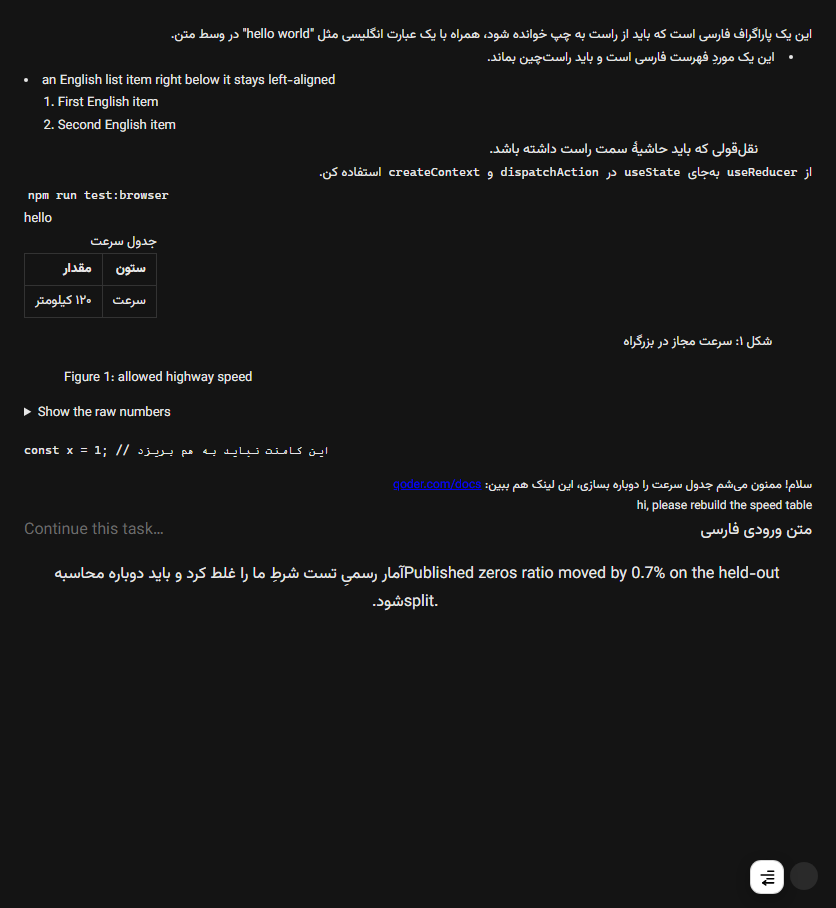
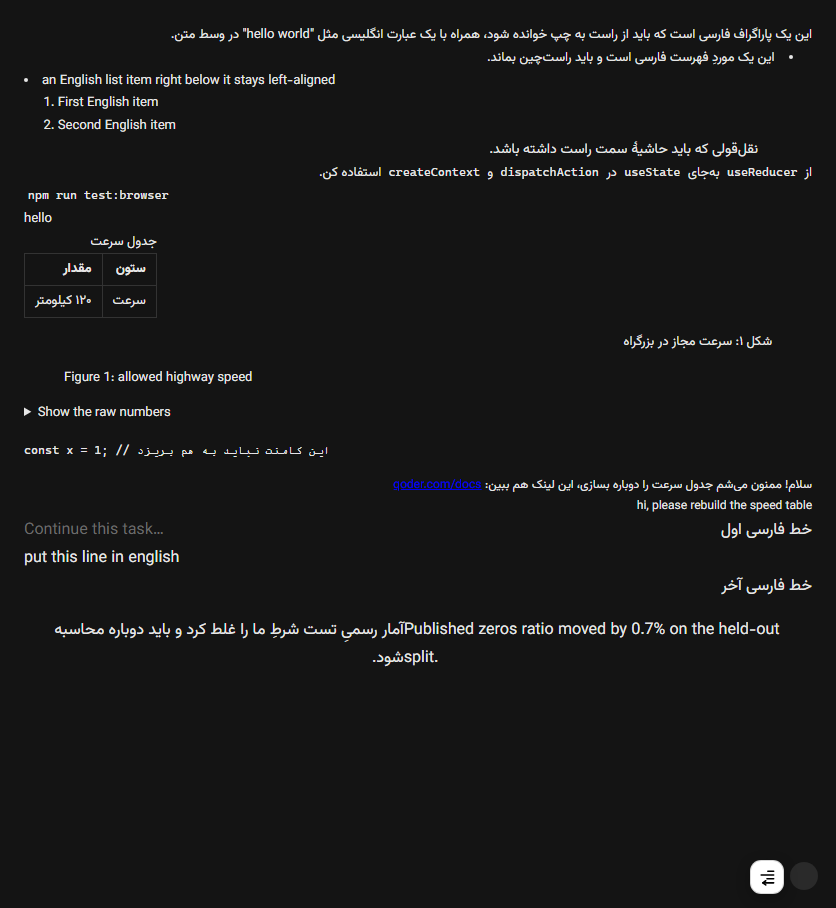
fix: give each line of the chat input its own direction
The owner reported it on the live app: in the composer, one English letter made everything
LTR instead of just that line. The cause was my own batch-9 change — I made the editor
classifiable like every other block, but the composer is one box holding several hard lines,
so a block-level verdict can only be wrong for some of them. Measured on the fixture: a
single "p" in an empty input turned the whole box ltr/left.

- the editor is no longer classified: it keeps `direction: rtl` with
  `unicode-bidi: plaintext`, which takes each line's base direction from that line
- the ghost placeholder keeps its own verdict (one string, one verdict) — that half of
  batch 9 was correct and stays
- BLOCK_SELECTOR drops the contenteditable entry, with the reason and the `textarea`
  exemption written down next to it
- the smart-mode `.qrt-en`/`.qrt-fa` overrides name the placeholder directly instead of
  `:is(editor, placeholder)`
- the fifteenth audit line scores the editor on rtl + plaintext and prints
  `editor=rtl/per-line`, so it can no longer demand the class that caused this
- two new browser checks: the box carries no verdict, and the three fixture lines hug
  right/left/right by their own Range geometry — the complaint expressed as coordinates
- class counts retallied 9/10 -> 8/10; the fixture's editor now holds a real mixed
  three-line message, and docs/images were regenerated from it

Red-first in a worktree at f6525a6: 2 source checks red ({"editorInBlockList":true,
[…]

Changed region(s): [[0.0311, 0.5551, 0.9641, 0.7401]]

diff --git a/test/browser.js b/test/browser.js
@@ -195,9 +195,28 @@ async function settingsTest() {
         lead: Math.round(parseFloat(s.lineHeight) * 100) / 100,
         size: parseFloat(s.fontSize),
         dir: s.direction,
+        ub: s.unicodeBidi,
         align: s.textAlign === "start" ? (s.direction === "rtl" ? "right" : "left") : s.textAlign,
         cls: el.className.replace(/text-sm|leading-6|text-text|my-0/g, "").trim()
       };
+    };
+    /* Where each hard line of the composer actually lands inside its own box. A block-level
+       language verdict cannot express this: it decides for the whole input at once, which is
+       the regression the owner reported («one English letter flips everything»). */
+    var editorLines = function () {
+      var box = editor.getBoundingClientRect();
+      return [].slice.call(editor.childNodes)
+        .filter(function (n) { return n.nodeType === 3 && n.data.trim(); })
+        .map(function (n) {
+          var rg = document.createRange();
+          rg.selectNodeContents(n);
+          var r = rg.getBoundingClientRect();
+          return {
+            txt: n.data.slice(0, 18),
+            hugs: Math.abs(r.right - box.right) < Math.abs(r.left - box.left) ? "right" : "left",
+            firstLastOrder: r.right > r.left ? "forward" : "reverse"
+          };
+        });
     };
     api.apply({ lineHeight: 2.3, rtl: true, mode: "smart" });
     var smart = {
@@ -220,6 +239,7 @@ async function settingsTest() {
       /* The composer is where you type Persian *and* English, so a fixed RTL pin is wrong
          half the time: both its surfaces need their own verdict like any other block. */
       editor: ratio(editor),
+      editorLines: editorLines(),
       ghost: ratio(ghost),
       monFa: ratio(monFa),
       monEn: ratio(monEn),
@@ -279,8 +299,8 @@ async function settingsTest() {
            paragraph inside <details> raised these from 4/5 to 6/7 (the caption and the
            table cells are deliberately not classified — the tables switch owns those),
            and Qoder's own human turn — two bubbles, one per language — raised them to 7/8,
-           and the composer's two surfaces plus the task-monitor panel to 9/10. */
-        val.smart.fa === 9 &&
+           and the task-monitor panel to 9/10; taking the block-level verdict off the composer box again made it 8/10. */
+        val.smart.fa === 8 &&
         val.smart.en === 10,
       JSON.stringify(val.smart)
     );
@@ -310,10 +330,26 @@ async function settingsTest() {
        placeholder are RTL-pinned by the stylesheet but were never classified, so an English
        placeholder sat right-aligned with its ellipsis on the wrong side — and that placeholder
        only appears while a run is going on, which is what made it look streaming-specific. */
+    /* The composer is one box holding several lines, so a block-level verdict can only be
+       wrong for some of them — measured on the previous payload: a single Latin letter in an
+       otherwise empty input flipped the whole box to ltr/left. `unicode-bidi: plaintext`
+       already gives every hard line its own base direction, which is what the two checks
+       below measure — the box's class, and where each line actually lands. */
     check(
-      "the composer gets its own direction verdict",
-      val.smart.editor.dir === "rtl" && val.smart.editor.align === "right" && /qrt-fa/.test(val.smart.editor.cls),
+      "the composer box stays one RTL block with no language verdict of its own",
+      !/qrt-(fa|en)/.test(val.smart.editor.cls) &&
+        val.smart.editor.dir === "rtl" &&
+        val.smart.editor.align === "right" &&
+        val.smart.editor.ub === "plaintext",
       JSON.stringify(val.smart.editor)
+    );
+    check(
+      "each line of the composer keeps its own direction",
+      val.smart.editorLines.length === 3 &&
+        val.smart.editorLines[0].hugs === "right" &&
+        val.smart.editorLines[1].hugs === "left" &&
+        val.smart.editorLines[2].hugs === "right",
+      JSON.stringify(val.smart.editorLines)
     );
     check(
       "an all-Latin placeholder is not right-aligned",
@@ -603,7 +639,7 @@ async function geometryTest() {
         val.plain.ghost.dir === "ltr" &&
         /qrt-en/.test(val.plain.ghost.cls) &&
         val.plain.editor.dir === "rtl" &&
-        /qrt-fa/.test(val.plain.editor.cls),
+        !/qrt-(fa|en)/.test(val.plain.editor.cls),
       JSON.stringify({ ghost: val.plain.ghost, editor: val.plain.editor })
     );
 

diff --git a/test/live.js b/test/live.js
@@ -287,14 +287,19 @@ function main() {
   check("the panel's prose is stamped for leading, not only given a direction",
     baseTags.filter((t) => /p|li|dd|dt|blockquote|figcaption|summary/.test(t)).every((t) => leadList.includes(`"${MON} ${t}"`)),
     leadList.includes(`"${MON} p"`) ? "panel p in LEAD_SELECTOR" : "panel p missing from LEAD_SELECTOR");
-  /* The composer half: pinned by the base rule since 1.6.0, classified only now — an English
-     placeholder had no .qrt-en to hand it back to LTR. */
-  check("the composer's editor and placeholder get a verdict, both ways",
-    blockList.includes('"[data-chat-composer] [contenteditable]"') &&
-      blockList.includes('"[data-chat-composer] [data-chat-composer-placeholder]"') &&
-      /html\[data-qrt-mode="smart"\] \[data-chat-composer\] :is\(\[contenteditable="true"\], \[data-chat-composer-placeholder\]\)\.qrt-en/.test(css) &&
-      /html\[data-qrt-mode="smart"\] \[data-chat-composer\] :is\(\[contenteditable="true"\], \[data-chat-composer-placeholder\]\)\.qrt-fa/.test(css),
-    JSON.stringify({ blockEditor: blockList.includes('"[data-chat-composer] [contenteditable]"'), smartEn: /placeholder\]\)\.qrt-en/.test(css) }));
+  /* The composer's ghost placeholder is one string, so it gets one verdict — measured on the
+     live window as the Latin «Continue this task…» sitting right-aligned with its ellipsis on
+     the wrong side. The *editor* is deliberately not classified: it holds several hard lines,
+     and a block-level verdict flipped the whole input to LTR over one Latin letter. The base
+     rule keeps it `rtl` + `unicode-bidi: plaintext`, which decides per line instead. */
+  check("the composer placeholder gets a verdict and the editor keeps per-line plaintext",
+    blockList.includes('"[data-chat-composer] [data-chat-composer-placeholder]"') &&
+      !blockList.includes('"[data-chat-composer] [contenteditable]"') &&
+      /html\[data-qrt-mode="smart"\] \[data-chat-composer\] \[data-chat-composer-placeholder\]\.qrt-en/.test(css) &&
+      /html\[data-qrt-mode="smart"\] \[data-chat-composer\] \[data-chat-composer-placeholder\]\.qrt-fa/.test(css) &&
+      !/html\[data-qrt-mode="smart"\] \[data-chat-composer\] :is\(\[contenteditable="true"\], \[data-chat-composer-placeholder\]\)\.qrt-en/.test(css) &&
+      /\[data-chat-composer\] :is\(textarea, \[contenteditable="true"\], \[data-chat-composer-placeholder\]\) \{\s*unicode-bidi: plaintext;/.test(css),
+    JSON.stringify({ editorInBlockList: blockList.includes('"[data-chat-composer] [contenteditable]"'), smartGhost: /\[data-chat-composer\] \[data-chat-composer-placeholder\]\.qrt-en/.test(css) }));
   check("the verdict measures the panel and the placeholder instead of assuming them",
     probe.includes("monitorText: monitor") && /var monitor = readSurface\(/.test(probe) &&
       probe.includes('taskMonitor: count("[data-task-monitor-fixed-panel]")') && /var ghost = readSurface\(/.test(probe),
@@ -302,6 +307,12 @@ function main() {
   check("the new row refuses to pass on a window that rendered neither surface",
     /surfaceShots\.length\s*\?[\s\S]{0,1800}:\s*null/.test(livejs) && livejs.includes("not rendered to measure"),
     (/const surfaceShots = [^\n]*/.exec(livejs) || [""])[0]);
+  /* The row must not ask the editor for a class — that demand is what made a single Latin
+     letter flip the whole input. It asks for an RTL box with per-line plaintext instead. */
+  check("the row scores the editor on per-line plaintext rather than on a verdict",
+    /editorOk\(a\.composerEditor\)/.test(livejs) && /bidi === "plaintext"/.test(livejs) &&
+      !/one\(a\.composerEditor\)/.test(livejs) && probe.includes("bidi: s.unicodeBidi"),
+    JSON.stringify({ editorOk: /editorOk\(a\.composerEditor\)/.test(livejs), bidiInProbe: probe.includes("bidi: s.unicodeBidi") }));
   /* And the fixture has to keep containing the surfaces, or these rows quietly degrade to
      "never measured" forever — the exact blind spot that hid the batch-8 defect. */
   const fixture = fs.readFileSync(path.join(__dirname, "fixtures", "chat.html"), "utf8");

diff --git a/patches/rtl.css b/patches/rtl.css
@@ -102,10 +102,11 @@
    right-aligned with no class to argue with), and test/live.js checks that invariant. */
 html[data-qrt-mode="smart"] [data-chat-message-text] :is(p, li, blockquote, h1, h2, h3, h4, h5, h6, dd, dt, figcaption, summary).qrt-en,
 html[data-qrt-mode="smart"] [data-task-monitor-fixed-panel] :is(p, li, blockquote, h1, h2, h3, h4, h5, h6, dd, dt, figcaption, summary).qrt-en,
-/* The composer is typed into in both languages, so a fixed RTL pin was wrong half the time:
-   measured on the live window, the run-time placeholder «Continue this task…» is Latin and sat
-   right-aligned with its ellipsis on the wrong side, while the editor holds your Persian. */
-html[data-qrt-mode="smart"] [data-chat-composer] :is([contenteditable="true"], [data-chat-composer-placeholder]).qrt-en,
+/* Only the ghost text is judged as one block: it is one string. The editor under it holds
+   several hard lines and keeps `unicode-bidi: plaintext` from the base rule, so each line
+   takes its direction from that line — a verdict on the whole editor made one Latin letter
+   flip a Persian input to left-alignment (measured, and the reason this line is not here). */
+html[data-qrt-mode="smart"] [data-chat-composer] [data-chat-composer-placeholder].qrt-en,
 html[data-qrt-mode="smart"] [data-user-bubble] [data-chat-message-text].qrt-en {
   direction: ltr;
   text-align: left;
@@ -113,7 +114,7 @@ html[data-qrt-mode="smart"] [data-user-bubble] [data-chat-message-text].qrt-en {
 
 html[data-qrt-mode="smart"] [data-chat-message-text] :is(p, li, blockquote, h1, h2, h3, h4, h5, h6, dd, dt, figcaption, summary).qrt-fa,
 html[data-qrt-mode="smart"] [data-task-monitor-fixed-panel] :is(p, li, blockquote, h1, h2, h3, h4, h5, h6, dd, dt, figcaption, summary).qrt-fa,
-html[data-qrt-mode="smart"] [data-chat-composer] :is([contenteditable="true"], [data-chat-composer-placeholder]).qrt-fa,
+html[data-qrt-mode="smart"] [data-chat-composer] [data-chat-composer-placeholder].qrt-fa,
 html[data-qrt-mode="smart"] [data-user-bubble] [data-chat-message-text].qrt-fa {
   direction: rtl;
   text-align: right;

diff --git a/patches/rtl.js b/patches/rtl.js
@@ -2,7 +2,7 @@
 (function () {
   "use strict";
 
-  var VERSION = "1.8.2";
+  var VERSION = "1.8.3";
   var STORE_KEY = "qoder_persian_rtl_config_v1";
   if (typeof window === "undefined" || typeof document === "undefined") return;
   var previous = window.__QODER_RTL__;
@@ -54,12 +54,13 @@
        was RTL. The base CSS rule pins that container too, and an RTL-pinned block that
        cannot be classified is exactly the 1.4.0 bug. */
     "[data-user-bubble] [data-chat-message-text]" /* the human turn: text on the container */,
-    /* The composer's two text surfaces are direction-pinned by the stylesheet, so they need
-       a verdict like any other block: measured on the live window, the run-time placeholder
-       «Continue this task…» is Latin and had no class to hand it back to LTR. `textarea` is
-       deliberately absent — it is in CODE_ANCHOR, so markBlocks() skips it, and its text is
-       in `.value`, which the classifier does not read. Qoder's editor is contenteditable. */
-    "[data-chat-composer] [contenteditable]",
+    /* The composer's ghost placeholder is one string, so it gets one verdict like any other
+       block: measured on the live window, the Latin «Continue this task…» sat right-aligned
+       with its ellipsis on the wrong side. The *editor* is deliberately NOT here — it holds
+       several hard lines, and a block-level verdict on it flipped the whole input to LTR over
+       a single Latin letter. The base rule leaves it `rtl` + `unicode-bidi: plaintext`, which
+       decides each line from that line's own text. `textarea` is absent for a different
+       reason: it is in CODE_ANCHOR, so markBlocks() skips it, and its text is `.value`. */
     "[data-chat-composer] [data-chat-composer-placeholder]",
     /* The agent's task-monitor / recap panel: Persian prose that lives outside every chat
        hook, is filled while a run is going on and collapses when it ends. */

diff --git a/live.js b/live.js
@@ -560,7 +560,11 @@ function verdictRows(reports) {
               if (u.cls === "qrt-en") return u.direction === "ltr" && u.textAlign === "left";
               return false; /* an unmarked, RTL-pinned block is the defect itself */
             };
-            return one(a.monitorText) && one(a.composerGhost) && one(a.composerEditor);
+            /* The editor is the one block that must NOT carry a verdict: it holds several hard
+               lines, and `unicode-bidi: plaintext` gives each of them its own direction. So it
+               is scored on the box staying RTL and isolated per line, not on a class. */
+            const editorOk = (u) => !u || (a.mode === "off" ? u.direction === "ltr" : u.direction === "rtl" && u.bidi === "plaintext" && !/qrt-(fa|en)/.test(u.cls || ""));
+            return one(a.monitorText) && one(a.composerGhost) && editorOk(a.composerEditor);
           })
         : null,
       detail: surfaceShots.length
@@ -568,7 +572,8 @@ function verdictRows(reports) {
             .map((r) => {
               const a = r.applied;
               const fmt = (label, u) => (u ? `${label}=${u.cls || "UNMARKED"} ${u.direction}/${u.textAlign} stamp=${u.stamp || "none"}` : `${label}=absent`);
-              return [fmt("monitor", a.monitorText), fmt("ghost", a.composerGhost), fmt("editor", a.composerEditor)].join(" ");
+              const e = a.composerEditor;
+              return [fmt("monitor", a.monitorText), fmt("ghost", a.composerGhost), e ? `editor=${e.direction}/${e.bidi === "plaintext" ? "per-line" : e.bidi}` : "editor=absent"].join(" ");
             })
             .join(" | ")
         : answered.map((r) => `panel nodes=${r.hooks ? r.hooks.taskMonitor : "?"}, composer nodes=${r.hooks ? r.hooks.composer : "?"}`).join(" | ") || "—"

diff --git a/test/fixtures/chat.html b/test/fixtures/chat.html
@@ -237,7 +237,7 @@
               role="textbox"
               aria-label="Send task message"
               data-editor-render-key="1"
-            >متن ورودی فارسی</div>
+            >خط فارسی اول<br>put this line in english<br>خط فارسی آخر</div>
             <!-- The overlay is a sibling, not styled text inside the editor: it needs
                      the same direction, font and leading or the ghost text and the caret
                      line disagree. -->

diff --git a/lib/payload.js b/lib/payload.js
@@ -239,6 +239,7 @@ function probeSource() {
     return {
       direction: s.direction,
       textAlign: align,
+      bidi: s.unicodeBidi,
       ratio: sz && isFinite(lh) ? Math.round((lh / sz) * 1000) / 1000 : null,
       stamp: el.getAttribute("data-qrt-lead"),
       cls: mark ? mark[0] : null,

diff --git a/docs/REPORT.md b/docs/REPORT.md
@@ -187,6 +187,10 @@ npm run test:browser     # End-to-end روش CDP روی یک Chromium واقعی
 
 **batch هشتم همان چیزی است که مالک روی Qoder واقعی گزارش کرد، نه چیزی که تستها پیدا کنند:** «چرا دیگه روی پیامهای ورودی کاربر اعمال نمیشه این RTL؟ فقط روی خروجی کار میکنه». علتش در متنِ هیچ قانونی دیده نمیشد: حبابِ پیام کاربر هم `data-chat-message-text` دارد، ولی Qoder آن را با markdown رندر نمیکند — متنِ پیام **روی خودِ `<div>`** است (`text-xs leading-4 whitespace-pre-wrap`، بدون `<p>`، بدون `.markdown-body`)، پس تمامِ قانونهایی که از آن صفت *پایین* میروند هرگز به آن نمیرسیدند و جهتِ پاسخها درست بود در حالی که پیامِ خودِ شما زیر پیشفرضِ `ltr`ِ اپ میماند. markup از همان جای `out\renderer\assets\index-DDa3WwIe.js` خوانده شد که `data-message-kind:"user"` را میگذارد. payload به **۱٫۸٫۱** رسید و صفتِ حباب در شش گروهِ قانون، `BLOCK_SELECTOR` و `LEAD_SELECTOR` نشست. **چرا ۵۲ چکِ مرورگر این را ندیدند؟** چون fixture هیچ حبابِ کاربری نداشت؛ چیزی که وجود ندارد را نمیشود سنجید. دو چکِ سورسِ تازه (هر شش گروه + هر دو فهرست رانتایم) و دو چکِ پروب/سطر اضافه شد و در fixture هم دو حباب نشست (فارسی + انگلیسی). **کنترلِ منفی:** این بار `git worktree` درستِ ابزار بود، چون `HEAD` (`6d0cbf4`) دقیقاً درختِ پیشِ batch است. با payload ۱٫۸٫۰ و تستهای تازه: **۴ چکِ سورس سرخ** (`{"missing":["leading","direction","smartEn","smartFa","force","off"],"mentions":0}`) و **۸ خطا در تست مرورگر** — از جمله سطرِ تازهٔ `--check` با خروجیِ واقعیِ نقص: `your own messages follow the patch, not only the replies (UNMARKED ltr/left leading=1.75 stamp=none)`. یک چک را باید صادقانه کمارزش اعلام کنم: «با خاموشکردنِ جهت پیامِ کاربر به `ltr/left` برمیگردد» روی کدِ **خراب هم سبز ماند**، چون حبابِ خرابنشده از اول `ltr/left` بود؛ آن چک فقط *برگشتن* را میگیرد، نه خودِ نقص را، و چهار چک دیگر همان نقص را میگیرند. **روی Qoder واقعی (۰٫۳٫۳) هم سنجیده شد**، ۲۰۲۶-۰۹-۲۱ بعد از اینکه مالک با `node cli.js start --check` خودش برنامه را با پرچم بالا آورد: **۱۴/۱۴ سطر PASS** و سطرِ تازه روی متنِ زنده — `qrt-fa rtl/right leading=1.8 stamp=1.8` با `userBubble:3` و `hasParagraph:false`، یعنی پیشفرضِ «متنِ پیام روی خودِ کانتینر است» روی نصبِ واقعی هم درست بود (نه فقط روی fixture). در کنارش `fa=26/en=1`، `bytes=10506`، نثر `23.4px` با `zoom 1.0625`، و پروبها `23.4→27.95px` / کد `78→114.41px`. **اولین اجرا فریبدهنده بود:** چهار سطرِ نثر سرخ شد چون `hooks` همه صفر بود — پنجره هنوز گفتوگو را رندر نکرده بود، نه اینکه پچ نگرفته باشد؛ اجرایِ دوم چند ثانیه بعد همان پنجره را کامل دید. چیزی که همچنان سنجیده نشده: **پنجرهٔ دومِ بینقشه** (`still being attached`) و ظاهرِ بصریِ متنِ بزرگشده، که آزمونِ خودکار نمیبیندشان. عددِ تازهها: `npm test` = **۱۶۹ ok**، `npm run test:browser` = **۵۸ ok**، سطرهای `--check` = **۱۴**.
 
+**batch دهم یک رگرسیونِ ساختِ خودم را برگرداند؛ مالک آن را روی Qoder واقعی گزارش داد:** «توی input چت RTL درست کار نمیکند و حتی با یک حرفِ انگلیسی همهچیز LTR میشود، بهجای اینکه فقط همان خط انگلیسی LTR شود». علتش تغییرِ batch نهم بود: من «کامپوزر» را هم مثلِ بقیهٔ بلوکها طبقهبندیپذیر کردم، ولی کادرِ نوشتن **یک بلوک با چند خطِ واقعی** است و داوریِ سطح-بلوک فقط میتواند برای بعضیِ خطها غلط باشد. روی fixture اندازه گرفته شد: یک `p` در ورودیِ خالی → کلِ باکس `ltr/left`؛ و در ورودیِ سهخطی (فارسی/انگلیسی/فارسی) با payloadِ قبلی خطِ انگلیسی هم «به سمتِ راست» میچسبید (چون `text-align: right` از قاعدهٔ `.qrt-fa`). راهحل حذفِ همان داوری برای ادیتور است: `direction: rtl` + `unicode-bidi: plaintext` میماند و **هر خط جهت و ترازِ خودش را از متنِ خودش میگیرد** — بعد از اصلاح، همان خطِ انگلیسی «به سمتِ چپ» میچسبد و دو خطِ فارسی راست میمانند؛ این با هندسهٔ Rangeِ هر خط سنجیده میشود نه با style محاسبهشده. نیمهٔ درستِ batch نهم (placeholder که یک رشته است و داوریِ خودش را میگیرد) سرِ جایش ماند. سطرِ پانزدهمِ `--check` هم عوض شد: ادیتور را بر پایهٔ `rtl` + `plaintext` داوری میکند و `editor=rtl/per-line` چاپ میکند، نه بر پایهٔ کلاس. **کنترلِ منفی** روی `f6525a6`: **۲ چکِ سورس سرخ** (`{"editorInBlockList":true,"smartGhost":false}`) و **۴ چکِ مرورگر سرخ**، از جمله `each line of the composer keeps its own direction ([{…hugs:"right"}, {…hugs:"right"}])` — یعنی همان شکایتِ مالک، عددی شده. دو چکِ تجمیعیِ «بقیهٔ سطرها سبز است» هم قرمز شدند، چون سطرِ پانزدهم واقعاً FAIL میداد. عددِ تازهها: `npm test` = **۱۸۰ ok**، `npm run test:browser` = **۶۴ ok**، payload **۱٫۸٫۳**، پکیج **۱٫۱۱٫۱**. نکتهٔ فرایندی: همین batch را باید دو چکِ «نیمهاینواریانت» میگرفتند و گرفتند — وقتی CSS را بازنویسی میکردم، اشتباهی خطهای `.qrt-en`ِ پنل و پیام را حذف کردم و **همان چکِ مقایسهٔ فهرستها** قرمز شد؛ یعنی آن چکها فقط کاغذ نیستند.
+
+**یک چیزِ محیطی که در همین مرحله دیده شد:** نصبِ Qoderِ مالک به **۰٫۴٫۲** آپدیت شده (از ۰٫۳٫۳). هیچکدام از قانونهای ما روی ۰٫۴٫۲ سنجیده نشده و قلابها از DOMِ ۰٫۳٫۳ گرفته شدهاند؛ اولین اجرایِ زندهٔ موفقِ ۱٫۸٫۳ مشخص میکند که DOM عوض شده یا نه.
+
 **batch نهم با یک پیشفرضِ غلطِ من شروع شد و با اندازهگیری اصلاح شد.** مالک گفت «حینِ صحبت ایجنت RTL بهم ریخته است، فقط بعد از توقف درست میشود». اولین حدسِ من (بکتیکِ بستهنشده در markdownِ در حالِ رشد) و حدسِ دوم (نبودِ `<p>` در بلوکِ در حالِ رشد) هر دو با پروبِ زنده **رد شدند**: ۹۸ snapshot از رشدِ واقعیِ متن نشان داد ۱۳۱ نمونهٔ `<p>` همه `rtl/right/plaintext` با مهرِ `data-qrt-lead` بودند و **هیچ** داوریای وسط کار عوض نشد (۱۷ پاراگراف دنبال شد، ۱۰ تا رشد کردند). هندسهٔ همان پاراگرافِ اسکرینشات هم درست بود (منبع «`Test…` در برابر `Train…`» است و `Test` راستترین نشسته)، و جای تکتک نویارههای `floor ≤120` با `Range` اندازه گرفته شد: `≤` در جای خودش و بدونِ آینهشدن است — یعنی **من تصویر را اشتباه خوانده بودم**. چیزی که واقعاً خراب بود دو سطحِ بیرونِ لیستِ پیام بودند که فقط موقعِ اجرا دیده میشوند: پنلِ مانیتور تسک (`[data-task-monitor-fixed-panel]`، فارسی روی `direction: ltr`) و placeholderِ کامپوزر (لاتین، راستتراز، بیکلاس). payload به **۱٫۸٫۲** رسید: پنل در هر شش گروه + `BLOCK_SELECTOR` + `LEAD_SELECTOR`، و هر دو سطحِ کامپوزر داوریِ خودشان را گرفتند. **کنترلِ منفی** روی `9bcca4b` (که دقیقاً درختِ پیشِ batch است): **۵ چکِ سورس سرخ** (`{"missing":["leading","direction","smartEn","smartFa","force","off"],"mentions":0}` و `{"pinned":0}` — یعنی چکِ مقایسهٔ فهرست هم قرمز شد نه بیصدا سبز) و **۱۱ چکِ مرورگر سرخ** روی payload ۱٫۸٫۰/۱٫۸٫۱، از جمله `an all-Latin placeholder is not right-aligned (rtl/right)` و `the agent's task-monitor panel follows the patch, both ways (ltr/left, بیکلاس)`. یک چکِ قدیمی هم سرخ شد و آن **درست** میگفت: «placeholder باید با ادیتور یکی باشد» — که حالا با داوریِ جدایِ هر رشته نقض میشود؛ ادعا را شل نکردم بلکه دقیق کردم (تایپوگرافی یکی، جهت از متنِ خودش) و همان چک هنوز برگشتنِ فونت/فاصلهٔ خطوط را میگیرد. **افزودهٔ جانبی که از همینجا درآمد:** پروبِ لنگرِ پنل فاصله را با `innerWidth` میسنجید؛ چون `position: fixed` به صفحهنمایشِ بدونِ اسکرولبار نسجت است، هر صفحهٔ اسکرولشونده ۵۲ را ۶۷ نشان میداد (اندازه گرفته شد) و حالا `clientWidth` مبناست. **دست نزدم و عمداً:** عنوانِ گفتوگوها در نوارِ کناری و عنوانِ هدر (`header[data-chat-session-local-header] h1.truncate`) — chrome هستند و تصمیمِ دامنه «chrome چپچین بماند» است. **پیشنمایشِ فایلِ `.md` هم نه قابلِ حل است نه در دامنه** — و این بار با شواهدی که دفعهٔ اول نداشتم: متنِ خودِ پیشنمایش در سندِ چت نیست (جستوجو با رشتههای خودش)، آن سند `window.frames.length = 0`، صفر `<iframe>`، **صفر shadow root** و **صفر custom element** دارد (پس حدسِ «داخلِ Shadow DOM است» هم رد شد)؛ تنها تارگتِ دیگرِ CDP هیچکدام از `Page.enable`، `Runtime.enable`، `DOM.getDocument`، `Log.enable`، `Runtime.evaluate` و `Runtime.runIfWaitingForDebugger` را جواب نمیدهد (۶ تا ۲۵ ثانیه timeout) در حالی که `Target.getTargetInfo` همان بلادرنگ جواب میدهد — یعنی تارگت هست ولی رندررش دستوری اجرا نمیکند؛ و اسکنِ همهٔ پورتهای LISTENING لوکال (با ۹۲۲۲ بهعنوان کنترلِ مثبت، که پیدا شد) **دقیقاً یک** endpoint دیباگ روی ماشین نشان داد. مسیرِ پشتیبانیشدهای که امیدوار بودم هم نیست: `markdown.styles`/`markdown.preview` در آرشیوِ نصبشده پیدا نشد (۲۷۷۶ فایل اسکن، ۱ خطای استخراج، کنترلِ مثبت ۴ فایل زد؛ فایلهای >۶MB شمرده شدند ولی جستوجو نشدند). خلاصه: نه از CDP میشود به آن رسید، نه با یک تنظیمِ CSSِ کاربرپسند — پس این یک **محدودیتِ همین build** است، نه نقصِ پچِ ما. تنها کاری که از دستِ ما برمیآید اگر بخواهید: یک سطرِ گزارش که همین را بلند بگوید («the workbench/preview renderer answers no CDP command») تا ابزار بیصدا نادیدهاش نگیرد. عددِ تازهها: `npm test` = **۱۷۶ ok**، `npm run test:browser` = **۶۳ ok**، سطرهای `--check` = **۱۵** (روی Qoder واقعی هنوز با ۱٫۸٫۱ سنجیده شده؛ ۱٫۸٫۲ منتظرِ اجرایِ شماست).
 
 
@@ -234,5 +238,9 @@ Two ways to add Persian/Arabic RTL, an **offline Vazirmatn** font and correct bi
 **Batch 8 fixed the defect the owner reported on real Qoder, not one the tests found**: «why doesn't the RTL apply to the user's own input messages anymore? It only works on the output». No rule's text showed the cause. The human bubble does carry `data-chat-message-text`, but Qoder does not render it as markdown — the message text sits **on the `<div>` itself** (`text-xs leading-4 whitespace-pre-wrap`, no `<p>`, no `.markdown-body`), so every rule that descends *from* that attribute missed it, and the replies were correctly RTL while your own message stayed under the app's `ltr` default. The markup was read from the same place in `out\renderer\assets\index-DDa3WwIe.js` that sets `data-message-kind:"user"`. The payload went to **1.8.1** and the bubble selector now sits in six rule groups, in `BLOCK_SELECTOR` and in `LEAD_SELECTOR`. **Why did 52 browser checks miss it?** Because the fixture had no user bubble at all — what does not exist cannot be measured. Two new source checks (all six groups, plus both runtime lists) and two probe/row checks were added, and the fixture grew two bubbles (Persian and English). **Negative control:** this time `git worktree` was the right instrument, because `HEAD` (`6d0cbf4`) is exactly the pre-batch tree. With payload 1.8.0 and the new tests: **4 source checks red** (`{"missing":["leading","direction","smartEn","smartFa","force","off"],"mentions":0}`) and **8 failures in the browser suite** — including the new `--check` line reporting the defect's real output: `your own messages follow the patch, not only the replies (UNMARKED ltr/left leading=1.75 stamp=none)`. One check has to be called weak honestly: "turning direction off returns your own message to `ltr/left`" stayed **green** on the broken code, because the never-patched bubble was already `ltr/left`; it scores *reversal*, not the defect, and the other four checks are what catch it. **Measured on real Qoder 0.3.3 as well** (2026-09-21, after the owner launched the app with the flag via `node cli.js start --check`): **14/14 PASS**, with the new line reading off live text — `qrt-fa rtl/right leading=1.8 stamp=1.8`, `userBubble:3`, and `hasParagraph:false`, so the premise that the human turn's text sits on the container itself held on the real install and not only on the fixture. The same window reported `fa=26/en=1`, `bytes=10506`, prose at `23.4px` under `zoom 1.0625`, and probes moving leading `23.4→27.95px` and the inline `<code>` box `78→114.41px`. **The first run was misleading and is worth recording:** four prose lines went red because every `hooks` count was zero — the window had not rendered the conversation yet, which is not the same fact as "the patch did not land" — and re-running seconds later saw the same window whole. Still unmeasured: the second, undrawn target (its line reads `still being attached`) and how enlarged text *looks*, which no automated test sees. New totals: `npm test` = **169 ok**, `npm run test:browser` = **58 ok**, `--check` lines = **14**.
 
 **Batch 9 started from a wrong assumption of mine and measurement killed it.** The owner reported «RTL is a mess while the agent is talking; it only becomes correct once the answer stops». My two hypotheses — an unclosed backtick mid-stream turning a run into an LTR `<code>` island, and a growing block having no `<p>` for the descendant rules to reach — were both **rejected by a live read-only probe**: 98 snapshots of a real run showed 131 samples of growing `<p>` all at `rtl/right/plaintext` with the leading stamp, and **zero** verdict flips across 17 tracked paragraphs. The paragraph in the screenshot itself measures as correct RTL (its source order is "`Test…` در برابر `Train…`", and `Test` renders rightmost at x 975..1320), and per-character `Range` rects proved `floor ≤120` renders unmirrored with the sign in place — **I had misread the screenshot.** What was actually broken turned out to be two surfaces outside the message list that only appear during a run: the agent's task-monitor panel (`[data-task-monitor-fixed-panel]`, Persian prose computing `direction: ltr`, in-viewport, which collapses when the run ends) and the composer's ghost placeholder (RTL-pinned by the base rule with nothing classifying it, so the Latin «Continue this task…» sat right-aligned with its ellipsis on the wrong side). Payload **1.8.2** carries the panel through all six rule groups plus `BLOCK_SELECTOR` and `LEAD_SELECTOR`, and gives both composer surfaces their own verdict; `textarea` is deliberately excluded — it is in `CODE_ANCHOR`, so the classifier skips it, and its text lives in `.value`, which the classifier does not read. **Negative control** in a `git worktree` at `9bcca4b` (exactly the pre-batch tree): **5 source checks red** (`{"missing":["leading","direction","smartEn","smartFa","force","off"],"mentions":0}`, and the list-comparison check red as `{"pinned":0}` rather than silently green) and **11 browser checks red** on the old payload, including `an all-Latin placeholder is not right-aligned (rtl/right)` and `the agent's task-monitor panel follows the patch, both ways (ltr/left, unmarked)`. One older check went red *correctly* — "the placeholder matches the editor it stands over" was only true while both held the same string — so its claim was narrowed to typography-equality plus per-string direction, not weakened: it still fails if the font or the leading regresses. A side defect came out of the same measurement: the panel-anchoring probe compared against `innerWidth/innerHeight`, but a `position: fixed` element is laid out against the scroll-bar-free box, so any scrolling page reported the 52px inset as 67px (measured); `clientWidth/clientHeight` is the basis now. **Deliberately untouched:** the sidebar's conversation titles and the header title (`header[data-chat-session-local-header] h1.truncate`) — chrome, and the standing scope decision keeps chrome LTR. **Neither solvable nor in scope:** the `.md` preview pane — the chat document has `window.frames.length === 0` and no `<iframe>`/`<webview>`, and the only other page target answers nothing (`Runtime.enable` and `Page.getFrameTree` both time out at 12 s), so that surface is unreachable over CDP on this build. New totals: `npm test` = **176 ok**, `npm run test:browser` = **63 ok**, `--check` lines = **15** — measured on real Qoder up to payload 1.8.1 (14/14); 1.8.2 awaits the owner's run.
+
+**Batch 10 reverted a regression I had introduced myself, reported by the owner on the live app:** «in the chat input RTL does not work at all, and even one English letter makes every direction LTR instead of just that English line». The cause was batch 9's change: I made the composer's editor classifiable like every other block, but the composer is **one box holding several hard lines**, so a block-level verdict can only be wrong for some of them. Measured on the fixture: a single `p` in an empty input turned the whole box `ltr/left`; and in a three-line Persian/English/Persian input the English line still hugged the right edge, because `.qrt-fa` had given the box `text-align: right`. The fix is to take that verdict away from the editor: it keeps `direction: rtl` with `unicode-bidi: plaintext`, so **each line takes its direction and alignment from its own text** — after the change the English line hugs left while the Persian lines stay right, asserted from per-line `Range` geometry rather than a computed style. The half of batch 9 that was right stays: the ghost placeholder is one string and keeps its own verdict. The fifteenth audit line now scores the editor on `rtl` + `plaintext` and prints `editor=rtl/per-line`. Negative control at `f6525a6`: **2 source checks red** (`{"editorInBlockList":true,"smartGhost":false}`) and **4 browser checks red**, including `each line of the composer keeps its own direction` reporting the failure as data — `[{…hugs:"right"}, {…hugs:"right"}]` — which is the owner's complaint turned into a number. Two aggregate checks went red too, because the fifteenth line genuinely failed. New totals: `npm test` = **180 ok**, `npm run test:browser` = **64 ok**, payload **1.8.3**, package **1.11.1**. A process note worth keeping: while rewriting that CSS rule I accidentally deleted the panel's and the message list's `.qrt-en` lines, and the **list-comparison check caught it** — those invariant checks are not decoration.
+
+**One environmental fact measured in the same pass:** the owner's Qoder has updated to **0.4.2** (from 0.3.3). Nothing in this project has been verified against 0.4.2, and every anchor was taken from the 0.3.3 DOM; the first successful live run of 1.8.3 will show whether the hooks survived the update.
 
 MIT. Vazirmatn is under the SIL Open Font License (see `assets/OFL.txt`).

diff --git a/README.en.md b/README.en.md
@@ -34,6 +34,7 @@ Qoder — like most Electron apps — takes text direction from the **interface 
 ## Features
 
 - **Per-block direction, decided by the text itself.** A Persian sentence that happens to start with a Latin identifier stays right-aligned. Force-RTL and off modes are both available.
+- **Inside the composer, every line keeps its own direction.** One English word in a Persian message does not left-align the whole input — that line goes left, the rest stays right. Measured from per-line geometry, not from a computed style.
 - **Code, terminals and file paths stay left-to-right** — even inside a fully Persian message, in the app's own monospace font.
 - **Vazirmatn ships inside the tool** and is registered from inlined bytes: no download, no font installed on your system, works offline. The font is registered through the `FontFace` API, so a strict `font-src` policy cannot block it.
 - **Your own messages follow the patch too**, not only the assistant's replies — the human turn is rendered differently by Qoder and needed its own rules.
@@ -136,8 +137,8 @@ Because on Qoder 0.3.3 it bricked the app: `EnableEmbeddedAsarIntegrityValidatio
 <a id="verification"></a>
 ## Verification
 
-- `npm test` → **176** offline checks (payload shape, CLI behaviour and gates, staged-archive audit)
-- `npm run test:browser` → **63** end-to-end checks against headless Chromium, including real mouse and keyboard events and rendered-geometry measurements
+- `npm test` → **180** offline checks (payload shape, CLI behaviour and gates, staged-archive audit)
+- `npm run test:browser` → **64** end-to-end checks against headless Chromium, including real mouse and keyboard events and rendered-geometry measurements
 - `node cli.js check` → **15** lines on a real Qoder window
 
 Every new assertion is proven **red against the previous version** before it is trusted: a check that passes on broken code is not a check.

diff --git a/CHANGELOG.md b/CHANGELOG.md
@@ -14,6 +14,24 @@ Two version numbers exist and they are **not** the same thing:
 Package 1.4.0 – 1.7.0 were never released: payloads 1.4.0–1.8.0 all shipped together in
 package 1.8.0.
 
+## [1.11.1] - 2026-09-26
+
+Payload **1.8.3**.
+
+### Fixed
+- **The chat input no longer flips to LTR over one Latin letter.** 1.11.0 gave the composer's
+  editor a block-level language verdict; measured on the fixture, typing a single `p` turned
+  the whole box `ltr/left`, and a Persian-English-Persian input right-aligned the English line
+  too. The editor now carries **no** verdict: it keeps `direction: rtl` with
+  `unicode-bidi: plaintext`, which gives **each hard line** its own base direction — the English
+  line lays out and aligns left while the Persian lines stay right (asserted from per-line
+  geometry, not from a computed style).
+- The ghost placeholder keeps its own verdict — that half of 1.11.0 was correct and stays.
+
+### Changed
+- The fifteenth audit line scores the editor on `rtl` + per-line plaintext instead of on a
+  direction class, and prints `editor=rtl/per-line`.
+
 ## [1.11.0] - 2026-09-26
 
 Payload **1.8.2**.
